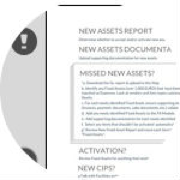
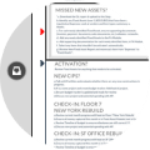
styles

diff --git a/app/assets/stylesheets/pages.scss b/app/assets/stylesheets/pages.scss
@@ -8,6 +8,7 @@ body {
   color: white;
 }
 
+
 a{
 	color: white;
 }
@@ -21,11 +22,18 @@ a.visited{
 	color: white;
 	letter-spacing: 4px;
 	text-decoration: none; 
+
 }
 
-.wrk-bttn-crcl a img:hover{
+.page-link-home a:hover{
+	color: white;
+	letter-spacing: 4px;
+	text-decoration: none; 
+}
+
+.wrk-bttn-crcl a:hover{
 	border-radius: 100%;
-	border:2px dashed #ff0000;
+	border: 2px dashed #ff0000;
 }
 
 
@@ -36,15 +44,15 @@ a.visited{
 
 .logo{ 
 	position: fixed;
-  	top: 50%;
+  	top: 30%;
   	left: 50%;
   	margin-top: -50px;
   	margin-left: -50px;
 }
+
 .logo h1{
-	font: 30px Tahoma, Helvetica, Arial, Sans-Serif;
+	font: 40px Tahoma, Helvetica, Arial, Sans-Serif;
 	color: white;
-	text-shadow: 0px 2px 3px #555;
 }
 
 #greene{
@@ -57,31 +65,47 @@ a.visited{
 
 }
 
-#about{
+.nav-top{
 	position: fixed;
-	margin-top: 5px;
-	left: 50%;
+	margin-top: 0px;
+	left: 47%;
 
 }
 
-#contact{
+.nav-bottom{
 	position: absolute;
-	bottom: 5px;
-	left: 50%;
+	bottom: 10px;
+	left: 47%;
 }
 
-#ux{
-	position: fixed;
+.nav-left{
+	position: absolute;
 	top: 50%;
-	left: 10px;
+	margin-left: 10px;
+	-moz-transform: rotate(90deg);
+	-webkit-transform: rotate(90deg);
+	-o-transform: rotate(90deg);
+	-ms-transform: rotate(90deg);
 	transform: rotate(90deg);
 }
 
-#archi{
-	position: fixed;
+.nav-right{
+	position: absolute;
 	top: 50%;
 	right: 0px;
+	height: 100px;
+	border: 4px solid green;
+	-moz-transform: rotate(-90deg);
+	-webkit-transform: rotate(-90deg);
+	-o-transform: rotate(-90deg);
+	-ms-transform: rotate(-90deg);
 	transform: rotate(-90deg);
+}
+
+.page-link-home{
+	font-family: "Lucida Sans Unicode", "Lucida Grande", sans-serif;
+	font-size: 30px;
+
 }
 
 #work-button:hover{
@@ -89,3 +113,13 @@ a.visited{
 	color: green;
 	border-width: 7px;
 }
+
+.row.clearfix{
+	padding-top: 30px;
+}
+
+.column{
+	text-align: center;
+}
+
+

diff --git a/vendor/assets/stylesheets/bootstrap.css b/vendor/assets/stylesheets/bootstrap.css
@@ -6248,15 +6248,13 @@ button.close {
 }
 .carousel-caption {
   position: absolute;
-  right: 15%;
-  bottom: 20px;
-  left: 15%;
+  left: 10%;
+  top: 10px;
   z-index: 10;
   padding-top: 20px;
   padding-bottom: 20px;
-  color: #fff;
-  text-align: center;
-  text-shadow: 0 1px 2px rgba(0, 0, 0, .6);
+  color: #000;
+  text-align: left;
 }
 .carousel-caption .btn {
   text-shadow: none;

diff --git a/app/assets/stylesheets/application.css b/app/assets/stylesheets/application.css
@@ -10,7 +10,7 @@
  * defined in the other CSS/SCSS files in this directory. It is generally better to create a new
  * file per style scope.
  *
- *= require bootstrap.min
+ *= require bootstrap
  *= require_tree .
  *= require_self
  */
